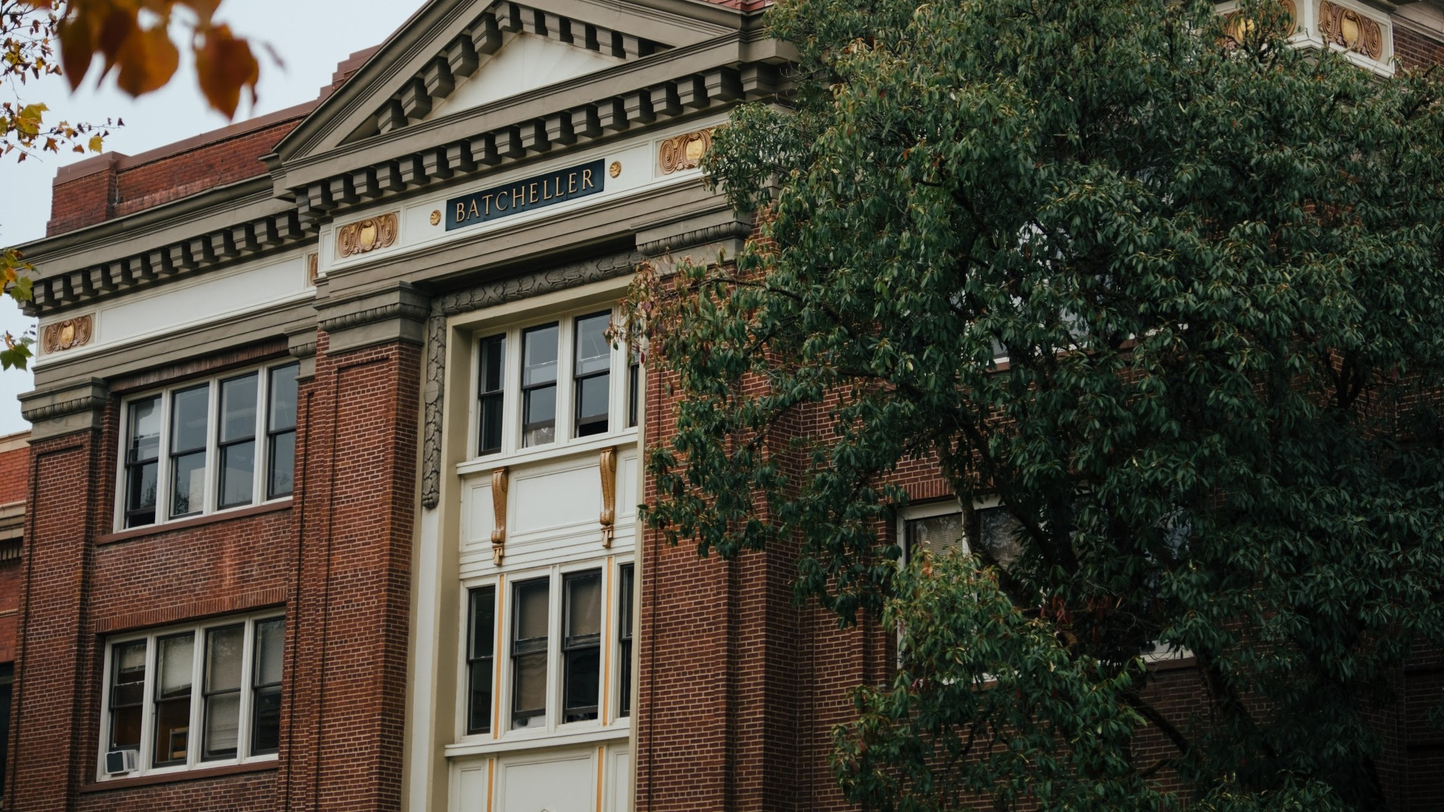
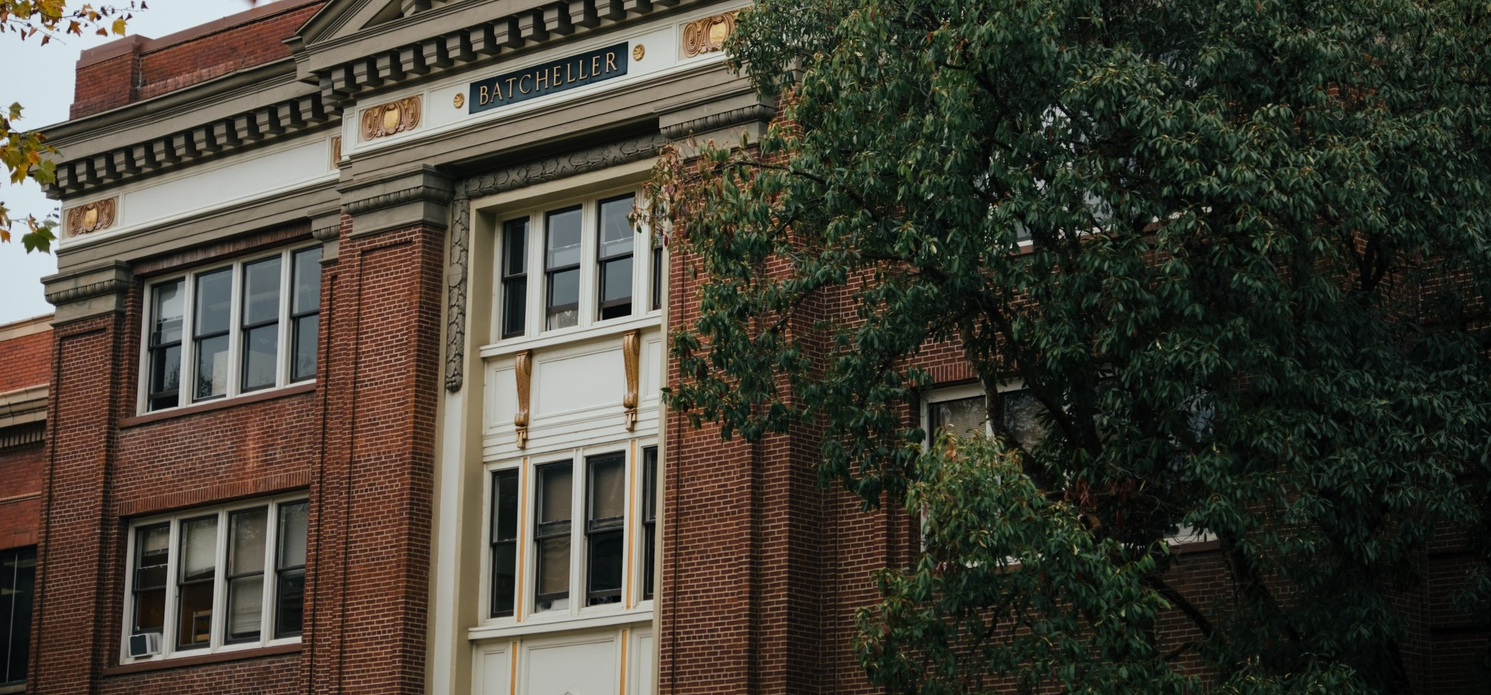
Fixed Picture

diff --git a/public/css/style.css b/public/css/style.css
@@ -2,7 +2,11 @@ header {
 
   color: white;
 
-  background: url('./IMG_0084.JPG')
+  background: url('./IMG_0084.JPG');
+
+  background-repeat: no-repeat;
+  
+  background-attachment: fixed;
 
 }
 
